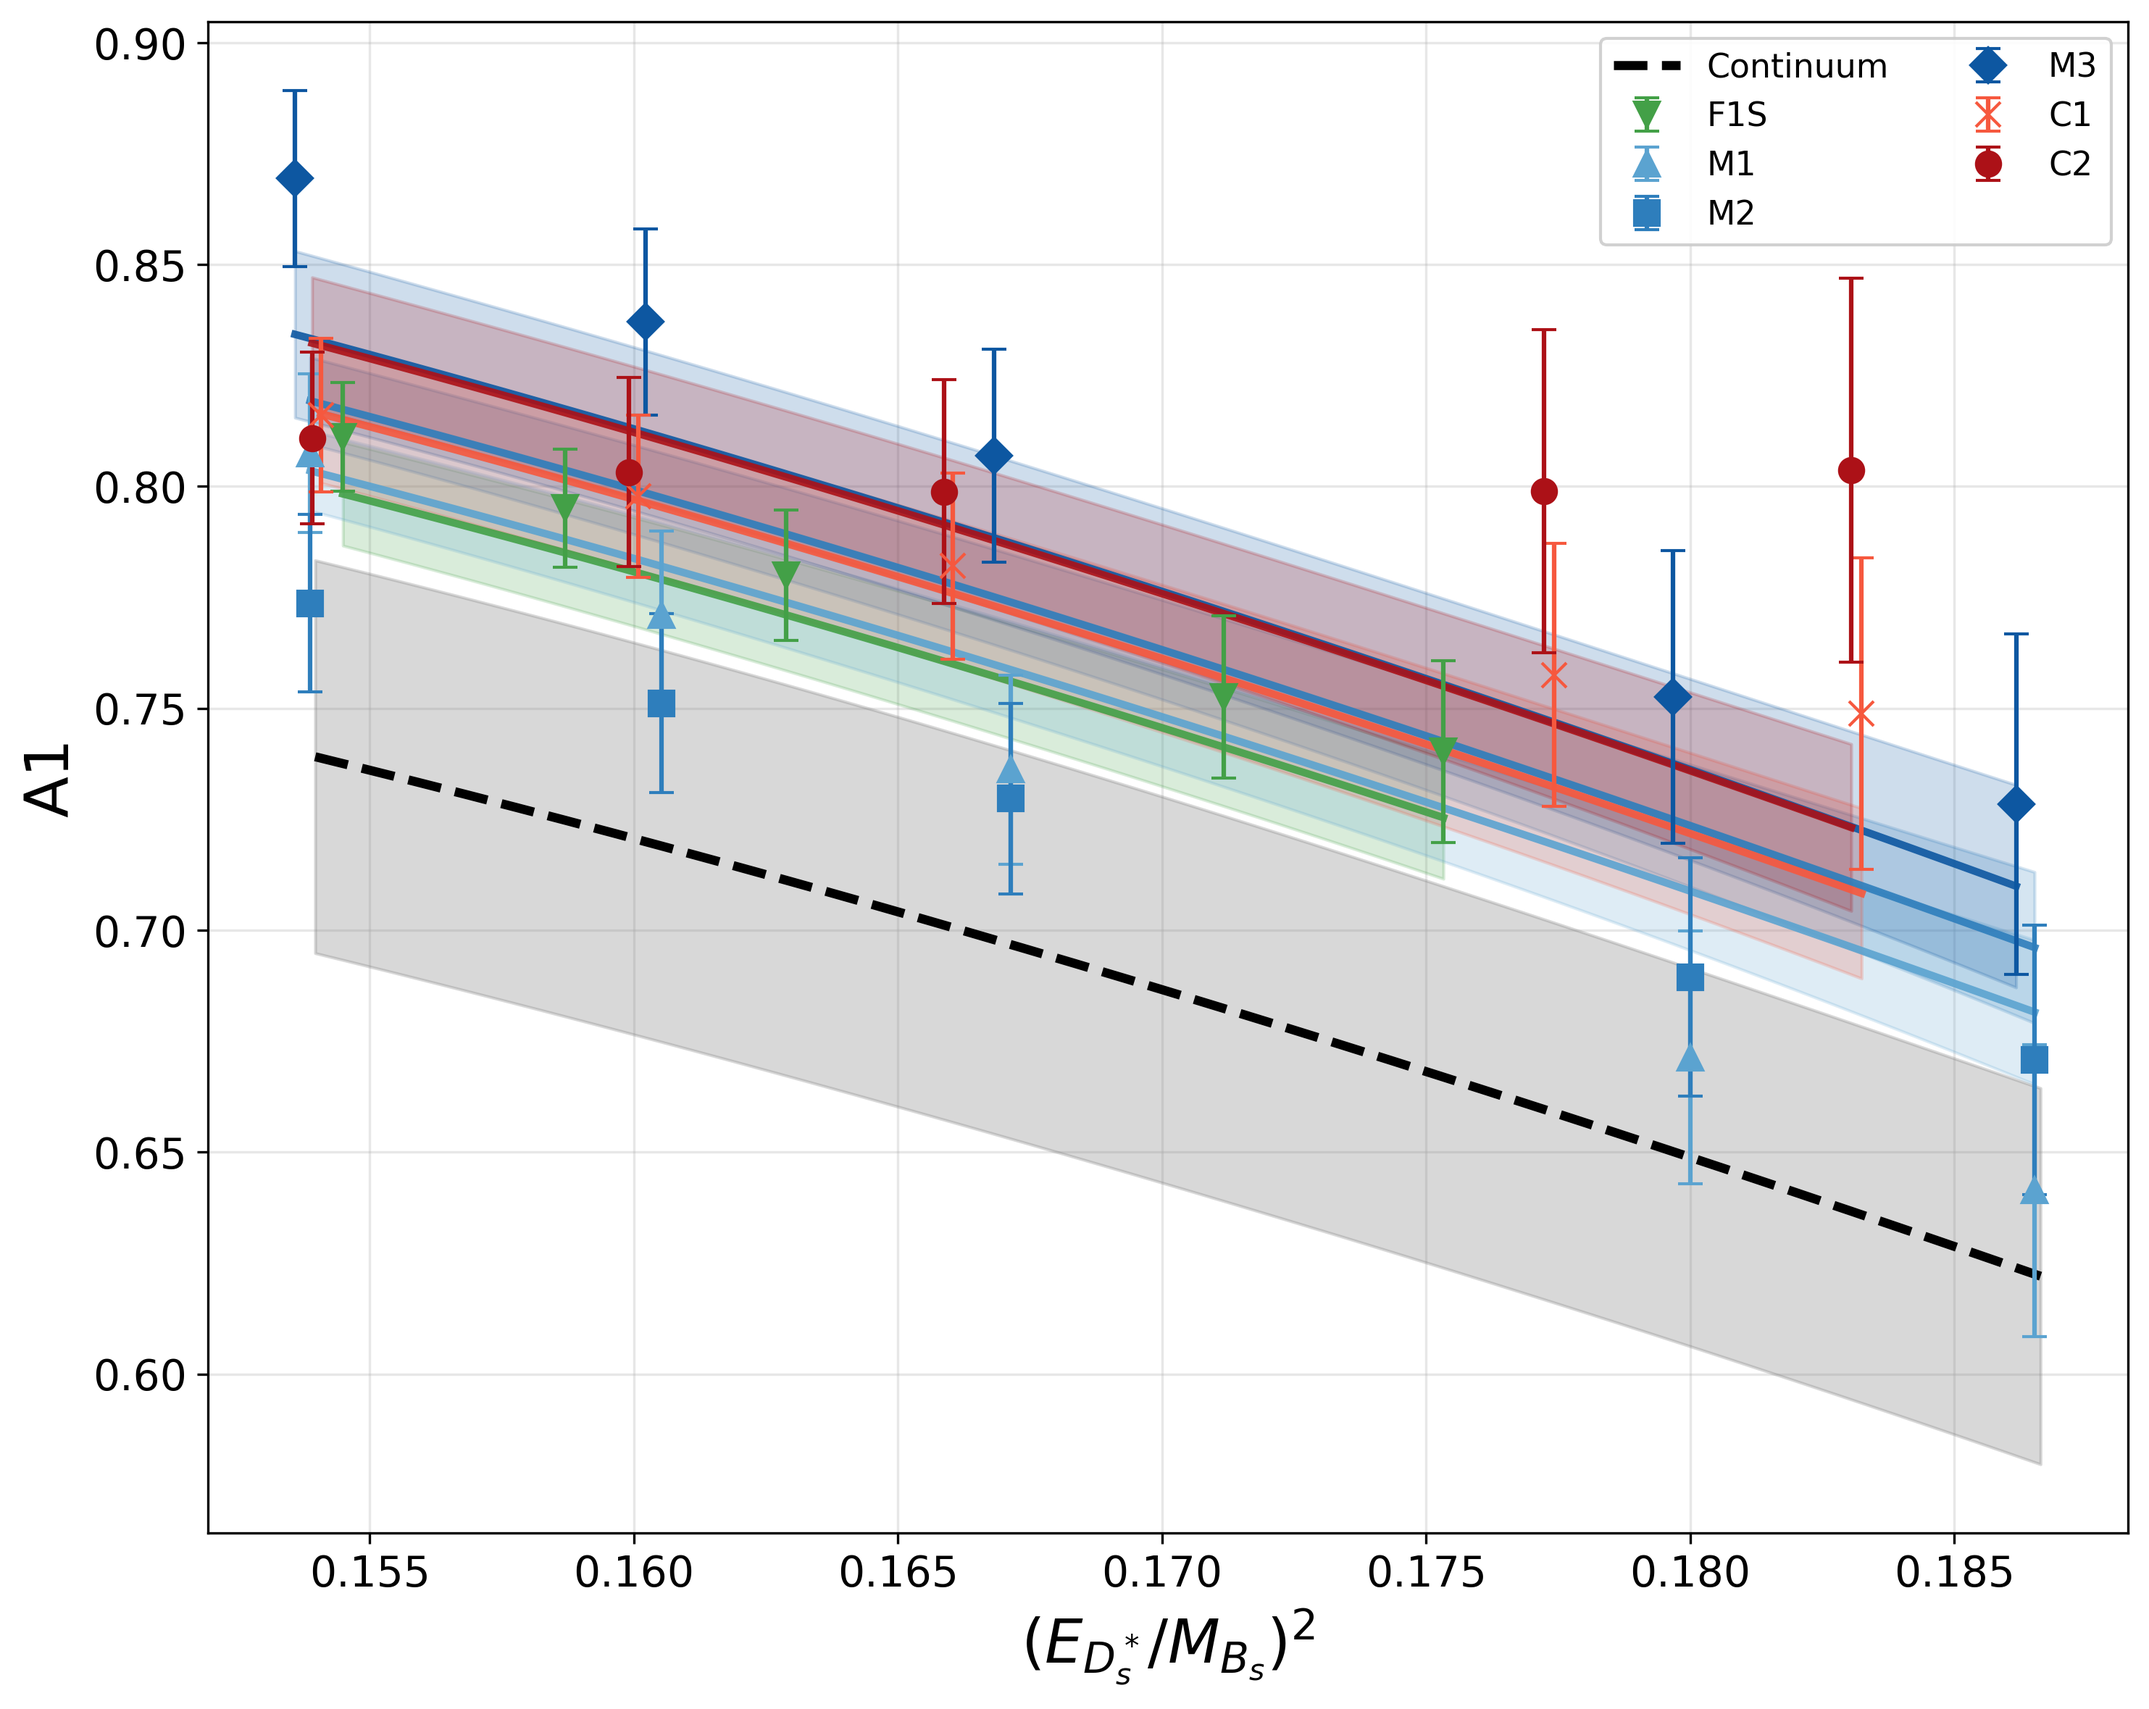
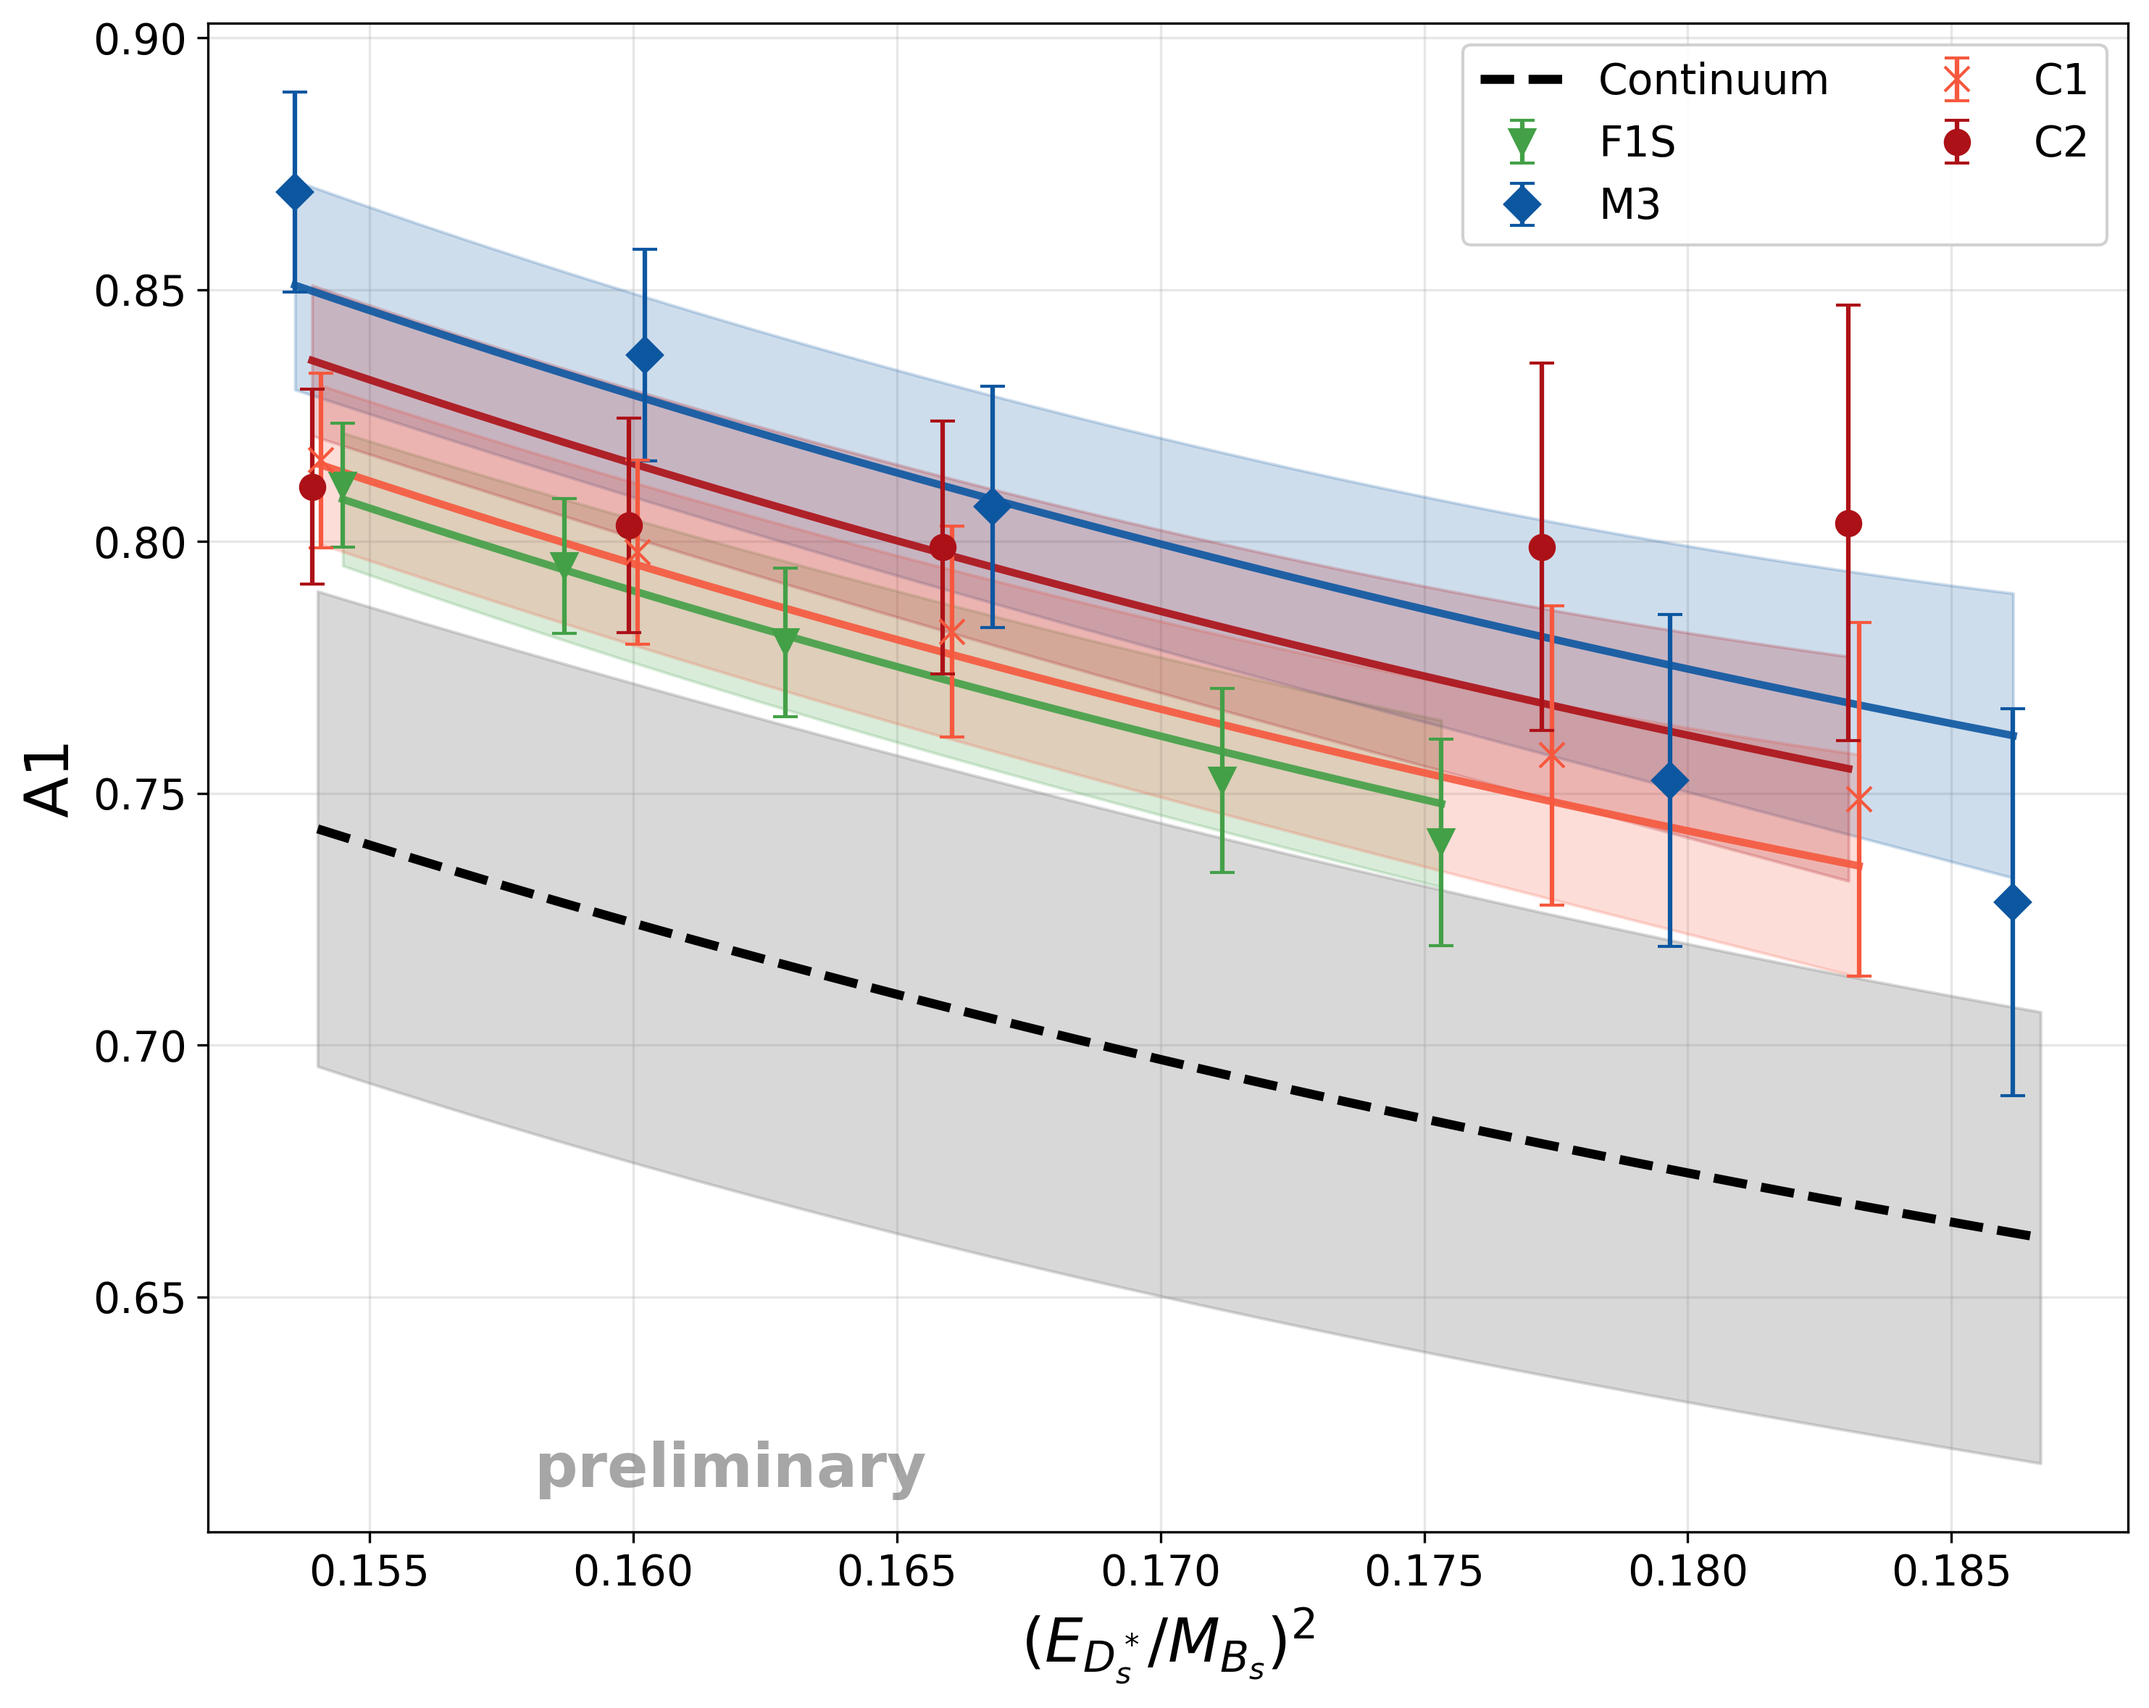
Chiral fit

diff --git a/Code/Chiral-new.py b/Code/Chiral-new.py
@@ -11,7 +11,7 @@ from scipy.stats import chi2 as chi2_dist
 # CONFIG
 # ============================================================
 
-active_ensembles = ["F1S", "M1", "M2", "M3", "C1", "C2"]
+active_ensembles = ["F1S", "M3", "C1", "C2"]
 FF_list = ["V", "A0", "A1"]
 show_continuum = True
 
@@ -603,7 +603,7 @@ def main():
         save_fit_results(FF, fit_result, Lambda_fit, Delta_X_fit)
         
         fig = plot_results(FF, ensemble_data, fit_result, data_dict)
-        outname = f"{FF}-Fit-NoChiralLog-woM.png"
+        outname = f"{FF}-Fit-NoChiralLog.png"
         fig.savefig(outname, dpi=300, bbox_inches='tight')
         print(f"\nPlot saved: {outname}")
         plt.close()
